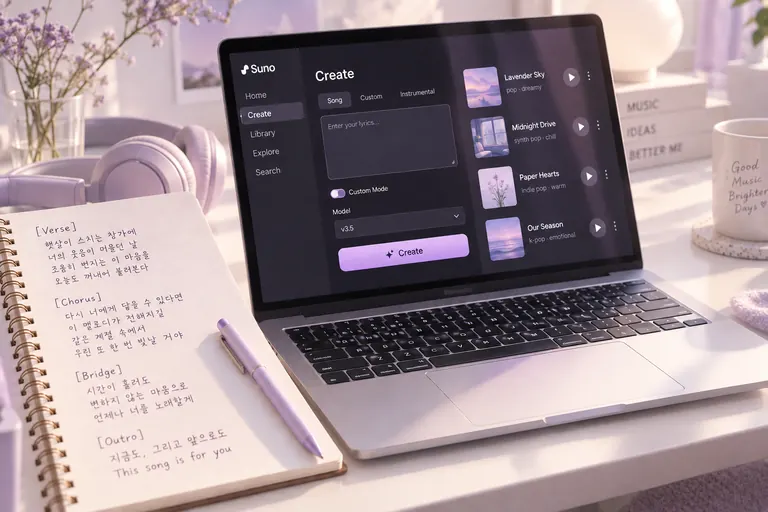
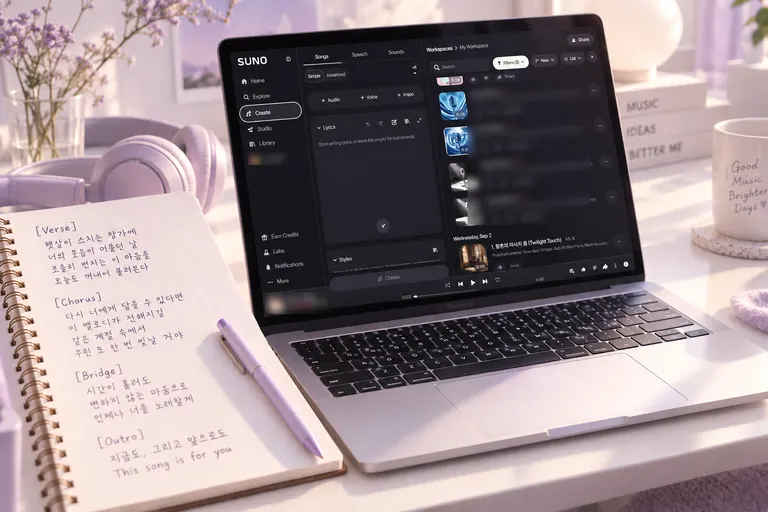
수노 노트: 실제 v6 화면 이미지(개인 정보 흐림)로 교체, Custom을 Advanced 모드로 표기 수정 [skip netlify]
Claude-Session: https://claude.ai/code/session_016zPBMTMdYjTKqz69VLvSS3

diff --git a/notes/suno-lyrics.html b/notes/suno-lyrics.html
@@ -4,7 +4,7 @@
 <meta charset="utf-8">
 <meta name="viewport" content="width=device-width, initial-scale=1, viewport-fit=cover">
 <title>수노(Suno) AI 작사, 가사부터 시작하는 법</title>
-<meta name="description" content="수노(Suno) AI 작사 방법을 순서대로 정리했습니다. 주제 한 문장, 곡 구조 메타태그, AI와 가사 다듬기, Custom 모드 입력, v6 가사 수정 기능, 무료·유료 플랜 저작권 차이까지.">
+<meta name="description" content="수노(Suno) AI 작사 방법을 순서대로 정리했습니다. 주제 한 문장, 곡 구조 메타태그, AI와 가사 다듬기, Advanced 모드 입력, v6 가사 수정 기능, 무료·유료 플랜 저작권 차이까지.">
 <meta property="og:type" content="article">
 <meta property="og:title" content="수노(Suno) AI로 작사부터 시작하는 법">
 <meta property="og:description" content="멜로디보다 가사를 먼저 잡고, AI와 대화하며 곡의 뼈대를 세우는 순서. 결 고운 하루 노트 · OHARU 이수연">
@@ -26,7 +26,7 @@
 <link rel="preload" as="style" href="https://fonts.googleapis.com/css2?family=Gowun+Dodum&family=Noto+Sans+KR:wght@400;500;700&family=IBM+Plex+Mono:wght@400;500&display=swap" onload="this.onload=null;this.rel='stylesheet'">
 <noscript><link rel="stylesheet" href="https://fonts.googleapis.com/css2?family=Gowun+Dodum&family=Noto+Sans+KR:wght@400;500;700&family=IBM+Plex+Mono:wght@400;500&display=swap"></noscript>
 <script type="application/ld+json">
-{"@context":"https://schema.org","@type":"Article","headline":"수노(Suno) AI로 작사부터 시작하는 법","datePublished":"2026-10-21","dateModified":"2026-10-21","inLanguage":"ko","image":"https://iamoharu.netlify.app/img/og-suno-lyrics.png","author":{"@type":"Person","name":"이수연","alternateName":"OHARU","url":"https://iamoharu.netlify.app/"},"mainEntityOfPage":"https://iamoharu.netlify.app/notes/suno-lyrics.html"}
+{"@context":"https://schema.org","@type":"Article","headline":"수노(Suno) AI로 작사부터 시작하는 법","datePublished":"2026-10-21","dateModified":"2026-10-21","inLanguage":"ko","image":["https://iamoharu.netlify.app/img/note-suno-lyrics.webp","https://iamoharu.netlify.app/img/og-suno-lyrics.png"],"author":{"@type":"Person","name":"이수연","alternateName":"OHARU","url":"https://iamoharu.netlify.app/"},"mainEntityOfPage":"https://iamoharu.netlify.app/notes/suno-lyrics.html"}
 </script>
 <style>
 :root{
@@ -117,7 +117,7 @@ footer{padding-block:48px;display:flex;justify-content:space-between;gap:12px;fl
   <div class="summary">
     <b>핵심 요약</b>
     <ol>
-      <li>수노에 바로 곡을 맡기기보다, 가사를 먼저 써서 Custom 모드에 넣으면 곡의 방향을 내가 쥘 수 있습니다.</li>
+      <li>수노에 바로 곡을 맡기기보다, 가사를 먼저 써서 Advanced 모드(이전 이름 Custom)에 넣으면 곡의 방향을 내가 쥘 수 있습니다.</li>
       <li>가사는 [Verse] [Chorus] 같은 구조 태그로 뼈대를 먼저 세우고, AI와 대화하며 살을 붙입니다.</li>
       <li>무료 플랜으로 만든 곡은 상업적으로 쓸 수 없으니, 발매·수익화가 목적이면 시작 전에 플랜부터 확인합니다.</li>
     </ol>
@@ -125,14 +125,14 @@ footer{padding-block:48px;display:flex;justify-content:space-between;gap:12px;fl
 </header>
 
 <figure class="hero">
-  <img src="../img/note-suno-lyrics.webp" srcset="../img/note-suno-lyrics-768.webp 768w, ../img/note-suno-lyrics.webp 1536w" sizes="(max-width:760px) 100vw, 760px" width="1536" height="1024" fetchpriority="high" alt="라벤더빛 책상 위, 왼쪽 스프링 노트에 손글씨 한국어 가사가 [Verse] [Chorus] [Bridge] [Outro] 구조 태그로 나뉘어 적혀 있고 그 위에 연보라 펜이 놓여 있다. 오른쪽 노트북 화면에는 가사 입력 칸과 Custom Mode 스위치, Create 버튼이 있는 음악 생성 화면과 완성된 곡 목록이 떠 있다. 가사를 먼저 쓰고 AI로 곡을 만드는 순서를 표현한 그림.">
-  <figcaption>AI 생성 이미지. 화면 속 메뉴와 버전 표시는 연출이며 실제 수노 화면과 다를 수 있습니다.</figcaption>
+  <img src="../img/note-suno-lyrics.webp" srcset="../img/note-suno-lyrics-768.webp 768w, ../img/note-suno-lyrics.webp 1536w" sizes="(max-width:760px) 100vw, 760px" width="1536" height="1024" fetchpriority="high" alt="라벤더빛 책상 위, 왼쪽 스프링 노트에 손글씨 한국어 가사가 [Verse] [Chorus] [Bridge] [Outro] 구조 태그로 나뉘어 적혀 있고 그 위에 연보라 펜이 놓여 있다. 오른쪽 노트북에는 수노 v6의 Create 화면이 떠 있다. Simple과 Advanced 선택 버튼, 비어 있는 Lyrics 칸, Styles 칸, 그리고 만들어진 곡 목록이 보인다. 가사를 먼저 쓰고 수노로 곡을 만드는 순서를 표현한 그림.">
+  <figcaption>작성자의 실제 수노 v6 화면을 AI로 책상 장면에 합성한 이미지입니다. 개인 정보가 보이는 부분은 흐리게 처리했습니다.</figcaption>
 </figure>
 
 <article>
 <h2>왜 가사부터 시작하는가</h2>
 <p>수노는 짧은 설명 한 줄만 넣어도 가사와 멜로디를 함께 만들어 줍니다. 편하지만, 그렇게 나온 곡은 "누가 만들어도 비슷한 곡"이 되기 쉽습니다. 곡의 이야기와 단어 선택을 AI가 대신 정해 버리기 때문입니다.</p>
-<p>가사를 먼저 쓰면 순서가 바뀝니다. 무엇을 말할지는 내가 정하고, 수노는 그 말에 어울리는 소리를 찾는 역할을 맡습니다. 수노 공식 도움말도 Custom 모드에서 직접 쓴 가사를 넣을 수 있다고 안내하며, 직접 입력한 오리지널 가사의 소유권과 권리는 작성자에게 남는다고 밝히고 있습니다.</p>
+<p>가사를 먼저 쓰면 순서가 바뀝니다. 무엇을 말할지는 내가 정하고, 수노는 그 말에 어울리는 소리를 찾는 역할을 맡습니다. 수노 공식 도움말도 Custom 모드(v6 화면에서는 Advanced)에서 직접 쓴 가사를 넣을 수 있다고 안내하며, 직접 입력한 오리지널 가사의 소유권과 권리는 작성자에게 남는다고 밝히고 있습니다.</p>
 
 <h2>시작 전에 확인할 두 가지</h2>
 <h3>1. 지금 쓰는 버전</h3>
@@ -199,11 +199,11 @@ footer{padding-block:48px;display:flex;justify-content:space-between;gap:12px;fl
   <li>후렴에는 노래 제목이 될 만한 구절을 한 번은 넣습니다.</li>
 </ul>
 
-<h3><span class="step">STEP 5</span>Custom 모드에 넣고 생성하기</h3>
+<h3><span class="step">STEP 5</span>Advanced 모드에 넣고 생성하기</h3>
 <ol>
-  <li>suno.com/create에서 상단의 <b>Custom</b>을 선택합니다.</li>
+  <li>suno.com/create의 Songs 탭에서 <b>Advanced</b>를 선택합니다. v6 화면에는 Simple과 Advanced 두 가지가 있고, 가사를 직접 넣는 칸은 Advanced에 있습니다. 이전 버전 화면과 도움말에서는 같은 기능을 Custom이라고 불렀습니다(v6 실제 화면 기준, 2026.10.21 확인).</li>
   <li><b>Lyrics</b> 칸에 태그를 붙인 가사를 붙여 넣습니다.</li>
-  <li><b>Style</b> 칸에는 장르, 분위기, 악기, 보컬을 짧게 적습니다. 커뮤니티 가이드에서는 4~7개 정도의 단어가 적당하다고 봅니다. 너무 적으면 AI가 마음대로 해석하고, 너무 많으면 서로 부딪힙니다.</li>
+  <li><b>Styles</b> 칸에는 장르, 분위기, 악기, 보컬을 짧게 적습니다. 커뮤니티 가이드에서는 4~7개 정도의 단어가 적당하다고 봅니다. 너무 적으면 AI가 마음대로 해석하고, 너무 많으면 서로 부딪힙니다.</li>
   <li>생성 후 마음에 드는 버전을 고르고, 어색한 가사 한 줄은 v6의 가사 수정 기능으로 그 부분만 고칩니다.</li>
 </ol>
 <pre><code>Style 예) korean ballad, warm piano, soft strings, female vocal, nostalgic</code></pre>
@@ -225,6 +225,7 @@ footer{padding-block:48px;display:flex;justify-content:space-between;gap:12px;fl
   <li><a href="https://help.suno.com/en/articles/13924801" rel="noopener">Suno Help, What's new in v6?</a> (2026.09.09 수정)</li>
   <li><a href="https://help.suno.com/en/articles/2415873" rel="noopener">Suno Help, Can I use my own lyrics?</a> (2025.12.19 수정)</li>
   <li><a href="https://help.suno.com/en/articles/2416769" rel="noopener">Suno Help, Does Suno own the music I make?</a> (2026.01.07 수정)</li>
+  <li><a href="https://jackrighteous.com/blogs/guides-using-suno-ai-music-creation/inside-suno-v6-create-simple-advanced-sounds-guide" rel="noopener">Jack Righteous, Inside Suno V6: Create Explained — Simple, Advanced, Sounds</a> (커뮤니티 가이드, 2026.9.11)</li>
   <li><a href="https://www.blakecrosley.com/guides/suno" rel="noopener">Blake Crosley, Suno V5.5 Reference: Meta Tags, Style-of-Music</a> (커뮤니티 가이드)</li>
 </ol>
 <p class="sources">수노의 기능과 약관은 자주 바뀝니다. 이 노트는 2026년 10월 21일에 위 공식 자료를 직접 확인해 작성했으며, 내용이 바뀌면 업데이트하고 날짜를 고쳐 둡니다. 공식 문서에 없는 내용(구조 태그 목록, Style 단어 수, 한국어 가사 다듬기)은 본문에 커뮤니티 가이드 또는 작사 실무 기준이라고 따로 표시했습니다.</p>

diff --git a/index.html b/index.html
@@ -653,7 +653,7 @@ a.note:hover{transform:translateY(-2px);border-color:var(--violet)}
   <div class="notes-bar">
     <div class="note-tabs" role="group" aria-label="노트 분류"></div>
   </div>
-  <div class="notes" id="noteList"><a class="note feature" href="notes/suno-lyrics.html"><img class="thumb" src="img/note-suno-lyrics-768.webp" width="768" height="512" loading="lazy" alt="손글씨 가사 노트와 음악 생성 화면이 뜬 노트북이 놓인 라벤더빛 책상 (AI 생성 이미지)"><div class="meta"><span class="cat"><span class="new-badge">최신 노트</span>AI 음악 만들기</span><span>2026.10.21</span></div><h3>수노(Suno) AI로 작사부터 시작하는 법</h3><p>멜로디보다 가사를 먼저 잡고, AI와 대화하며 곡의 뼈대를 세우는 순서를 정리합니다.</p><span class="go">노트 읽기 →</span></a></div>
+  <div class="notes" id="noteList"><a class="note feature" href="notes/suno-lyrics.html"><img class="thumb" src="img/note-suno-lyrics-768.webp" width="768" height="512" loading="lazy" alt="손글씨 가사 노트와 수노 v6 화면이 뜬 노트북이 놓인 라벤더빛 책상"><div class="meta"><span class="cat"><span class="new-badge">최신 노트</span>AI 음악 만들기</span><span>2026.10.21</span></div><h3>수노(Suno) AI로 작사부터 시작하는 법</h3><p>멜로디보다 가사를 먼저 잡고, AI와 대화하며 곡의 뼈대를 세우는 순서를 정리합니다.</p><span class="go">노트 읽기 →</span></a></div>
 </section>
 
 <script>
@@ -662,7 +662,7 @@ a.note:hover{transform:translateY(-2px);border-color:var(--violet)}
    url에 "notes/파일명.html"을 넣으면 카드가 노트로 연결되고, 비어 있으면 "준비 중"으로 표시됩니다. */
 const CATS = ["AI 뉴스 브리핑","AI 활용 노하우","AI 음악 만들기","뷰티 × AI","반주 · 피아노 × AI","AI 시대의 창작과 교육"];
 const NOTES = [
-  {cat:"AI 음악 만들기", title:"수노(Suno) AI로 작사부터 시작하는 법", desc:"멜로디보다 가사를 먼저 잡고, AI와 대화하며 곡의 뼈대를 세우는 순서를 정리합니다.", date:"2026.10.21", url:"notes/suno-lyrics.html", img:"img/note-suno-lyrics-768.webp", alt:"손글씨 가사 노트와 음악 생성 화면이 뜬 노트북이 놓인 라벤더빛 책상 (AI 생성 이미지)"},
+  {cat:"AI 음악 만들기", title:"수노(Suno) AI로 작사부터 시작하는 법", desc:"멜로디보다 가사를 먼저 잡고, AI와 대화하며 곡의 뼈대를 세우는 순서를 정리합니다.", date:"2026.10.21", url:"notes/suno-lyrics.html", img:"img/note-suno-lyrics-768.webp", alt:"손글씨 가사 노트와 수노 v6 화면이 뜬 노트북이 놓인 라벤더빛 책상"},
   {cat:"AI 음악 만들기", title:"AI가 부른 노래가 멜론 3위, 수노로 만든 곡은 어떻게 만들어졌나", desc:"화제의 AI 곡 제작 과정을 공개된 사실로 따라가 보고, 사람이 맡은 몫을 짚어 봅니다.", date:"", url:""},
   {cat:"AI 뉴스 브리핑", title:"이번 주 AI 소식 5가지", desc:"챗GPT·제미나이·클로드의 업데이트와 화제의 이슈를 공식 발표 기준으로 정리합니다.", date:"", url:""},
   {cat:"AI 활용 노하우", title:"챗GPT·제미나이·클로드, 무엇을 쓸까", desc:"무료로 쓸 수 있는 범위와 용도별 강점을 비교해 내게 맞는 AI를 고르는 법.", date:"", url:""},
